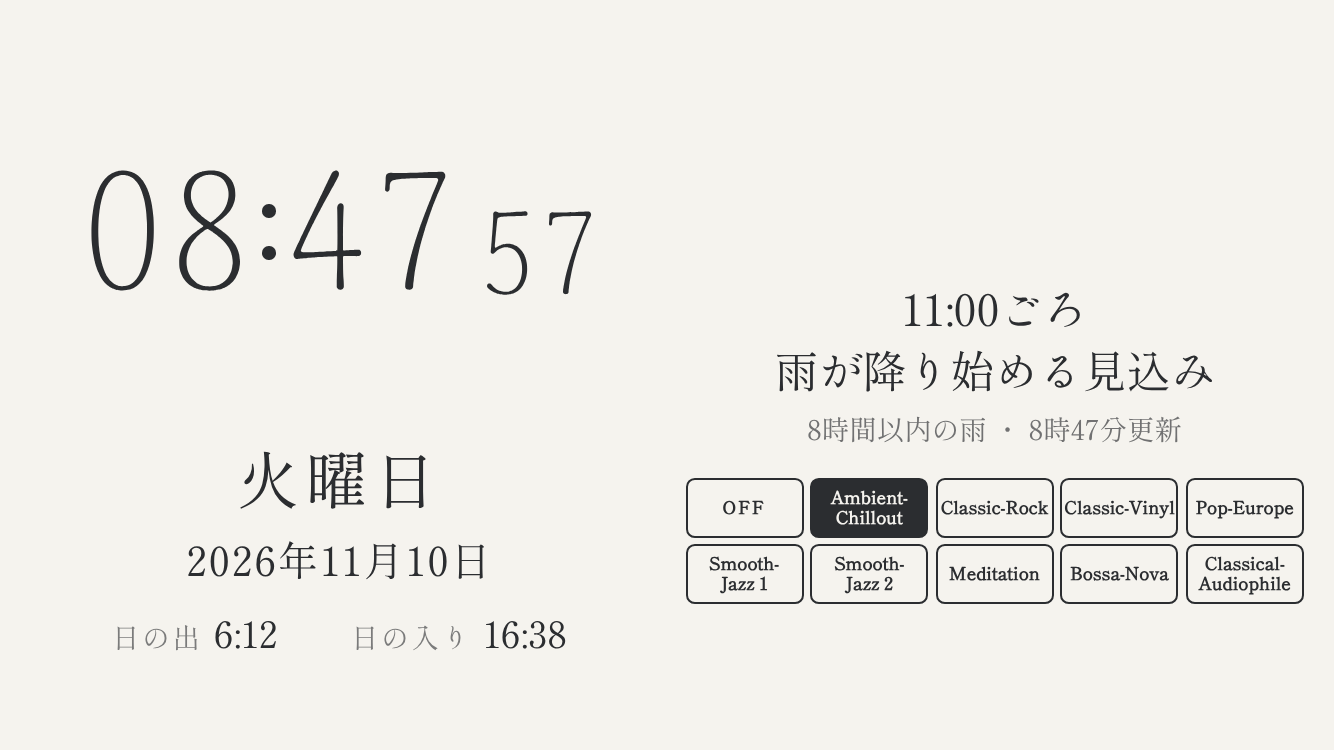
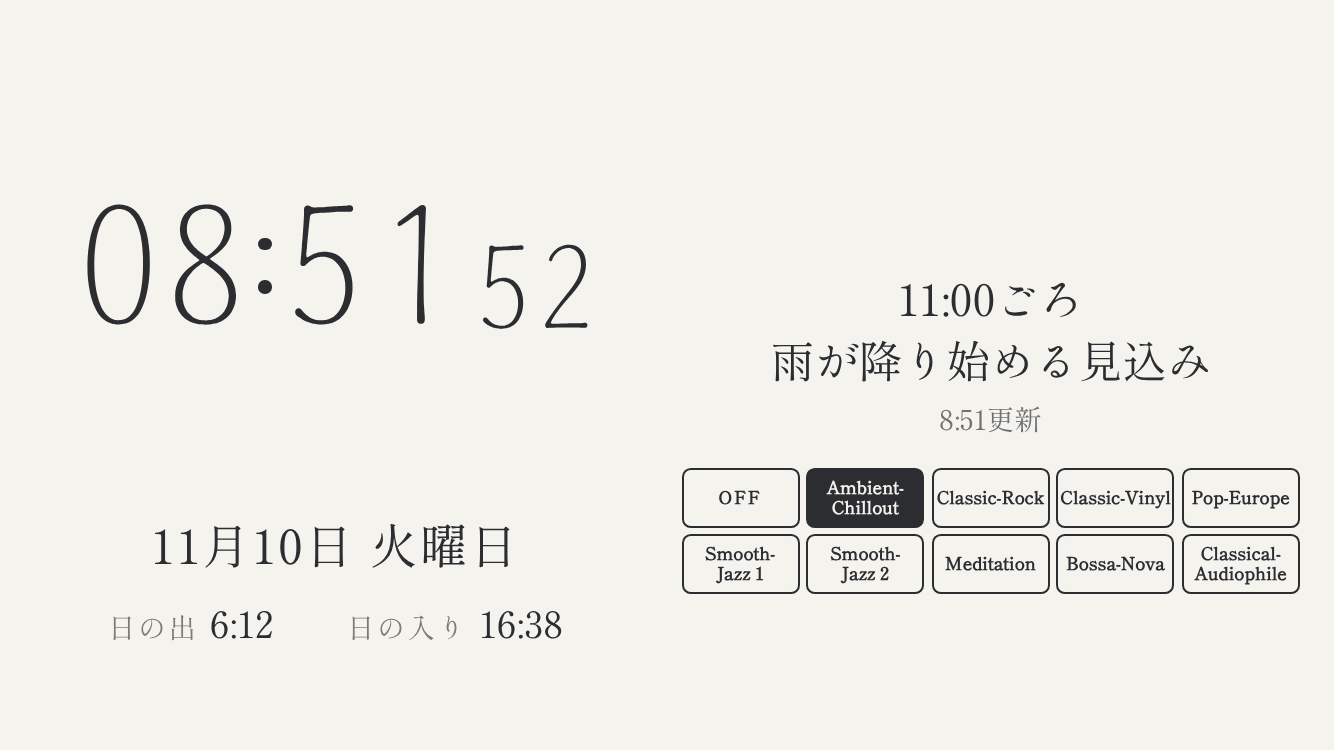
Still Here: 焼き付き対策、深夜の文字を暗く、日付と曜日を1行、雨の更新時刻を短くする
Claude-Session: https://claude.ai/code/session_01NVsEU5YZ5BtdUQZHyMLdES

diff --git a/still-here/app.js b/still-here/app.js
@@ -23,12 +23,12 @@
   // 基準は niisan.tv の Traveler Colors(昼 #F5F3EE / #2B2D30、夜 #12161A / #ECE8DF)。
   // 夜明け(5〜7時)と夕暮れ(16〜18時)をつなぐ色を足している。6〜18時が明るい「昼のグループ」、19〜5時が暗い「夜のグループ」。どの行も文字と背景の差が十分にあること。
   var COLORS = [
-    ['#12161A', '#ECE8DF'], //  0 深夜
-    ['#111519', '#E8E4DB'], //  1
-    ['#101418', '#E4E0D7'], //  2
-    ['#11161B', '#E6E2D9'], //  3
-    ['#151B23', '#E9E5DC'], //  4 夜明け前
-    ['#1F2A36', '#EEEAE1'], //  5 藍の夜明け
+    ['#12161A', '#A8A49C'], //  0 深夜(0〜5時は寝室向けに文字を暗くする)
+    ['#111519', '#8F8B84'], //  1
+    ['#101418', '#86837C'], //  2 いちばん暗い
+    ['#11161B', '#8F8B84'], //  3
+    ['#151B23', '#A8A49C'], //  4 夜明け前
+    ['#1F2A36', '#C9C5BC'], //  5 藍の夜明け
     ['#D8DCE0', '#24282E'], //  6 白む空
     ['#E9E8E3', '#2A2C30'], //  7 朝
     ['#F1EFEA', '#2B2D30'], //  8
@@ -110,14 +110,25 @@
     var key = now.getFullYear() + '-' + now.getMonth() + '-' + now.getDate();
     if (key === lastDay) return;
     lastDay = key;
-    $('weekday').textContent = WEEK[now.getDay()] + '曜日';
-    $('date').textContent = now.getFullYear() + '年' + (now.getMonth() + 1) + '月' + now.getDate() + '日';
+    $('date').textContent = (now.getMonth() + 1) + '月' + now.getDate() + '日 ' + WEEK[now.getDay()] + '曜日';
     if (forecast) renderSun(forecast);
+  }
+
+  // ---- 焼き付き対策: 1時間ごとに画面全体を数ピクセルずらす ------------------
+  // 同じ配置を何か月も点けっぱなしにすると、有機ELなどで文字の跡が残るため。見た目はほぼ変わらない。
+  var SHIFTS = [[0, 0], [4, 2], [-3, 4], [5, -3], [-4, -2], [2, 5], [-5, 1], [3, -4], [-2, -5], [1, 3], [-1, -3], [4, 4]];
+  var shiftedHour = -1;
+  function applyShift(hour) {
+    if (hour === shiftedHour) return;
+    shiftedHour = hour;
+    var d = SHIFTS[hour % SHIFTS.length];
+    document.querySelector('main').style.transform = 'translate(' + d[0] + 'px,' + d[1] + 'px)';
   }
 
   function tick() {
     var now = new Date();
     applyColor(now.getHours());
+    applyShift(now.getHours());
     renderTime(now);
     renderDate(now);
     setTimeout(tick, 1000 - (Date.now() % 1000) + 10);
@@ -188,7 +199,7 @@
       box.appendChild(sp);
     });
     var f = new Date(fetchedAt);
-    $('rain-sub').textContent = '8時間以内の雨 ・ ' + f.getHours() + '時' + pad2(f.getMinutes()) + '分更新';
+    $('rain-sub').textContent = f.getHours() + ':' + pad2(f.getMinutes()) + '更新';
     renderSun(forecast);
     alignRight();
   }
@@ -226,7 +237,7 @@
       renderForecast();
     }).catch(function (e) {
       if (forecast) {
-        $('rain-sub').textContent = $('rain-sub').textContent.replace(/(・ 更新できません)?$/, ' ・ 更新できません');
+        $('rain-sub').textContent = $('rain-sub').textContent.replace(/( ・ 更新できません)?$/, ' ・ 更新できません');
       } else {
         $('rain-main').textContent = e.message || '雨予報を取得できませんでした';
       }

diff --git a/still-here/index.html b/still-here/index.html
@@ -82,8 +82,8 @@
   .sec { display: flex; height: calc(var(--T) * 0.7); margin-left: calc(var(--T) * 0.12); }
   .sec .slot { width: calc(var(--T) * 0.42); }
 
-  .weekday { font-size: calc(var(--T) * 0.34 * var(--k)); letter-spacing: 0.1em; }
-  .date { font-size: calc(var(--T) * 0.22 * var(--k)); margin-top: calc(var(--T) * 0.06); letter-spacing: 0.05em; }
+  /* 日付と曜日は1行(時刻が主役なので、曜日を大きくしない) */
+  .date { font-size: calc(var(--T) * 0.26 * var(--k)); letter-spacing: 0.05em; }
   .sun { display: flex; margin-top: calc(var(--T) * 0.12); font-size: calc(var(--T) * 0.2 * var(--k)); }
   .sun div + div { margin-left: 2em; }
   .label { opacity: 0.6; font-size: 0.75em; margin-right: 0.4em; letter-spacing: 0.1em; }
@@ -146,8 +146,7 @@
   <div class="col">
     <div class="timebox"><div class="time" id="time" aria-label="時刻"></div></div>
     <div class="info">
-      <div class="weekday" id="weekday">--曜日</div>
-      <div class="date" id="date">----年--月--日</div>
+      <div class="date" id="date">--月--日 --曜日</div>
       <div class="sun">
         <div><span class="label">日の出</span><span id="sunrise">--:--</span></div>
         <div><span class="label">日の入り</span><span id="sunset">--:--</span></div>

diff --git a/still-here/sw.js b/still-here/sw.js
@@ -15,7 +15,8 @@ const CACHE_PREFIX = 'uniiqcode-still-here-';
 // v6→v7(2026年11月): 横向きで、ラジオ(状態の1行を含む)の下端を日の出・日の入りの下端にそろえた。
 // v7→v8(2026年11月): 18時を昼のグループ(明るい色)に入れた。
 // v8→v9(2026年11月): 時刻を上端と曜日の真ん中に独立させ、再生中の表示を局の名前だけにした。
-const CACHE_NAME = CACHE_PREFIX + 'v9';
+// v9→v10(2026年11月): 焼き付き対策のずらし、深夜の文字を暗く、日付と曜日を1行、雨の更新時刻を短くした。
+const CACHE_NAME = CACHE_PREFIX + 'v10';
 
 const APP_SHELL = [
   './', 'index.html', 'app.js', 'manifest.json',
